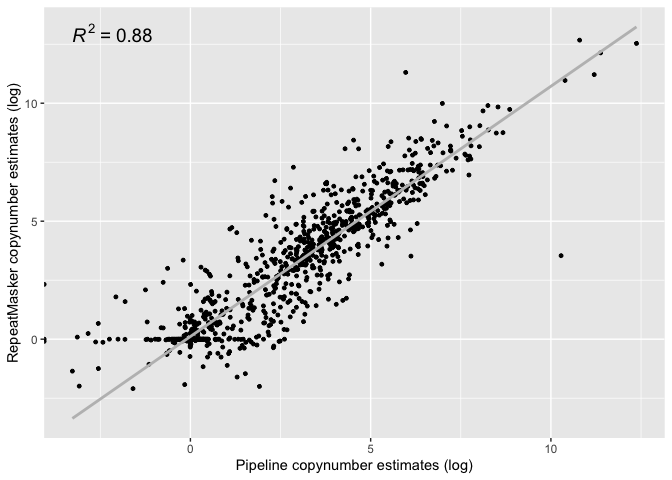
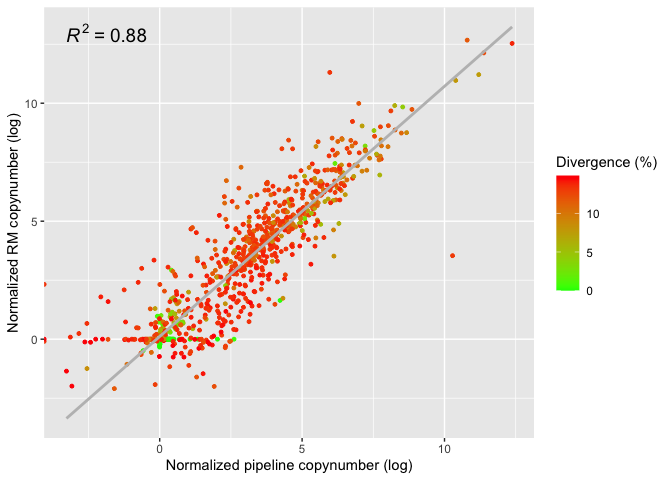
Script 11
Polished and documented script 11

diff --git a/ric_documentation/11_HGDP_T2T_control.md b/ric_documentation/11_HGDP_T2T_control.md
@@ -2,7 +2,7 @@ Telomer-to-telomer (T2T) Repeat Masker output analysis
 ================
 
 Idea: run RepeatMasker (RM) on the T2T human genome assembly published
-in 2022, then creat artificial short reads from the same genome and
+in 2022, then create artificial short reads from the same genome and
 compare the TE copynumbers obtained with the two methods.
 
 First, with this command I run RM, using our customized RepBase
@@ -101,11 +101,12 @@ library(ggpubr)
     ## #   ⁸matching_repeat
 
 Here I filter the RM output putting a threshold on the maximum
-**divergence** percentage among the query and the reference, as well as
-a minimum **length** for the match. I also remove the brackets present
-in some data to indicate that the sequence aligned to the complement of
-the reference, which create some problems with the data type and which
-are not interesting for this analysis.
+**divergence** percentage (`15`) among the query and the reference, as
+well as a minimum **length** (`150`, = read length) for the match. I
+also remove the brackets present in some data to indicate that the
+sequence aligned to the complement of the reference, which create some
+problems with the data type and which are not interesting for this
+analysis.
 
 As output of this chunk, I create a .csv file to analyze in Python using
 the script *from_RM_to_copynumber*, which estimates the copynumber of
@@ -114,30 +115,8 @@ the script by simply adding the length of each match of a sequence and
 then dividing by the sequence length.
 
 ``` r
-(RM_cutoff <- filter(RM, perc_div < 15, position_in_query_end-position_in_query_begin>150) %>% replace_na(list(other_match = "-")) %>% filter(other_match == "-") %>% mutate(position_in_repeat_begin = str_replace(position_in_repeat_begin, "\\(", "")) %>% mutate(position_in_repeat_begin = str_replace(position_in_repeat_begin, "\\)", "")) %>% mutate(position_in_repeat_left = str_replace(position_in_repeat_left, "\\(", "")) %>% mutate(position_in_repeat_left = str_replace(position_in_repeat_left, "\\)", "")) %>% mutate(position_in_query_left = str_replace(position_in_query_left, "\\(", "")) %>% mutate(position_in_query_left = str_replace(position_in_query_left, "\\)", "")) %>% mutate(position_in_repeat_end = str_replace(position_in_repeat_end, "\\(", "")) %>% mutate(position_in_repeat_end = str_replace(position_in_repeat_end, "\\)", "")) %>% mutate(position_in_query_begin = str_replace(position_in_query_begin, "\\(", "")) %>% mutate(position_in_query_begin = str_replace(position_in_query_begin, "\\)", "")) %>% mutate(position_in_query_end = str_replace(position_in_query_end, "\\(", "")) %>% mutate(position_in_query_end = str_replace(position_in_query_end, "\\)", "")) %>% arrange(matching_repeat))
-```
+RM_cutoff <- filter(RM, perc_div < 15, position_in_query_end-position_in_query_begin>150) %>% replace_na(list(other_match = "-")) %>% filter(other_match == "-") %>% mutate(position_in_repeat_begin = str_replace(position_in_repeat_begin, "\\(", "")) %>% mutate(position_in_repeat_begin = str_replace(position_in_repeat_begin, "\\)", "")) %>% mutate(position_in_repeat_left = str_replace(position_in_repeat_left, "\\(", "")) %>% mutate(position_in_repeat_left = str_replace(position_in_repeat_left, "\\)", "")) %>% mutate(position_in_query_left = str_replace(position_in_query_left, "\\(", "")) %>% mutate(position_in_query_left = str_replace(position_in_query_left, "\\)", "")) %>% mutate(position_in_repeat_end = str_replace(position_in_repeat_end, "\\(", "")) %>% mutate(position_in_repeat_end = str_replace(position_in_repeat_end, "\\)", "")) %>% mutate(position_in_query_begin = str_replace(position_in_query_begin, "\\(", "")) %>% mutate(position_in_query_begin = str_replace(position_in_query_begin, "\\)", "")) %>% mutate(position_in_query_end = str_replace(position_in_query_end, "\\(", "")) %>% mutate(position_in_query_end = str_replace(position_in_query_end, "\\)", "")) %>% arrange(matching_repeat)
 
-    ## # A tibble: 1,169,025 × 16
-    ##    SWscore perc_…¹ perc_…² perc_…³ query…⁴ posit…⁵ posit…⁶ posit…⁷ `+/c` match…⁸
-    ##    <chr>     <dbl>   <dbl>   <dbl> <chr>   <chr>   <chr>   <chr>   <chr> <chr>  
-    ##  1 4251        1.9     0       0.2 NC_060… 127766… 127769… 120618… +     6kbHsa…
-    ##  2 5953        5       0.4     0.3 NC_060… 127770… 127772… 120614… C     6kbHsa…
-    ##  3 201        11.3     6.3     5.6 NC_060… 208871… 208871… 395155… +     6kbHsa…
-    ##  4 1105       14.6     1       0   NC_060… 693439… 693441… 173352… C     6kbHsa…
-    ##  5 2985        6.8     1.2     0   NC_060… 132718… 132721… 109975… +     6kbHsa…
-    ##  6 3406        7.4     1       0.4 NC_060… 132721… 132726… 109970… +     6kbHsa…
-    ##  7 2922       10.5     3.6     3   NC_060… 132727… 132727… 109968… +     6kbHsa…
-    ##  8 0558        4.8     1.3     0   NC_060… 161737… 161740… 809562… C     6kbHsa…
-    ##  9 6574        2.4     0.2     0.1 NC_060… 957535… 957556… 105350… +     6kbHsa…
-    ## 10 2956        3.7     0.3     0.1 NC_060… 957549… 957591… 105346… +     6kbHsa…
-    ## # … with 1,169,015 more rows, 6 more variables: `repeat_class/family` <chr>,
-    ## #   position_in_repeat_left <chr>, position_in_repeat_begin <chr>,
-    ## #   position_in_repeat_end <chr>, ID <dbl>, other_match <chr>, and abbreviated
-    ## #   variable names ¹perc_div, ²perc_del, ³perc_ins, ⁴query_sequence,
-    ## #   ⁵position_in_query_begin, ⁶position_in_query_end, ⁷position_in_query_left,
-    ## #   ⁸matching_repeat
-
-``` r
 write_csv(RM_cutoff, "/Users/rpianezza/TE/T2T/RM_cutoff.csv")
 ```
 
@@ -156,80 +135,29 @@ RM_copynumbers <- read_csv("/Users/rpianezza/TE/T2T/RM_complete/copynumber_RM.cs
     ## ℹ Use `spec()` to retrieve the full column specification for this data.
     ## ℹ Specify the column types or set `show_col_types = FALSE` to quiet this message.
 
-``` r
-RM_scg <- filter(RM_copynumbers, str_detect(sequence, ".scg"))
-(RM_scg_outliers <- filter(RM_scg, copynumber > 1.5))
-```
-
-    ## # A tibble: 6 × 2
-    ##   sequence                      copynumber
-    ##   <chr>                              <dbl>
-    ## 1 chr1:2629757-2632979_scg            1.53
-    ## 2 chr14:105475310-105478776_scg       2.92
-    ## 3 chr16:765731-768798_scg             2.73
-    ## 4 chr16:792523-795720_scg             2.06
-    ## 5 chr16:89905008-89909174_scg         2.07
-    ## 6 chr7:95409506-95411684_scg         10.2
+Here I select only the TE, removing KRAB and SCG from the RM dataset.
+The resulting CSV file can be used for other analyses.
 
 ``` r
-RM_krab <- filter(RM_copynumbers, str_detect(sequence, ".krab"))
-(RM_krab_outliers <- filter(RM_krab, copynumber > 2.5))
-```
+RM_cutoff_te <- filter(RM_cutoff, str_detect(matching_repeat, ".te")) %>% mutate(position_in_query_begin = as.integer(position_in_query_begin)) %>% arrange(matching_repeat, position_in_query_begin)
 
-    ## # A tibble: 10 × 2
-    ##    sequence        copynumber
-    ##    <chr>                <dbl>
-    ##  1 a_CDK8_20_krab        4.93
-    ##  2 a_EWSR1_17_krab       5.49
-    ##  3 a_FOXD3_0_krab        3.27
-    ##  4 a_FOXO1_0_krab        2.88
-    ##  5 a_PCBP2_29_krab       5.80
-    ##  6 a_SRSF2_10_krab       2.92
-    ##  7 a_YWHAB_9_krab        2.58
-    ##  8 a_ZNF248_3_krab       4.48
-    ##  9 a_ZNF302_4_krab       3.14
-    ## 10 a_ZNF674_3_krab       4.88
-
-Here I select only the TE, removing KRAB and SCG from the dataset. The
-resulting CSV file can be used for other analyses.
-
-``` r
-(RM_cutoff_te <- filter(RM_cutoff, str_detect(matching_repeat, ".te")) %>% mutate(position_in_query_begin = as.integer(position_in_query_begin)) %>% arrange(matching_repeat, position_in_query_begin))
-```
-
-    ## # A tibble: 1,168,220 × 16
-    ##    SWscore perc_…¹ perc_…² perc_…³ query…⁴ posit…⁵ posit…⁶ posit…⁷ `+/c` match…⁸
-    ##    <chr>     <dbl>   <dbl>   <dbl> <chr>     <int> <chr>   <chr>   <chr> <chr>  
-    ##  1 8749        8.3     0.6     0.9 NC_060…    2070 4815    101156… C     6kbHsa…
-    ##  2 6479       14.8     1.4     0.3 NC_060…    4286 5535    101155… C     6kbHsa…
-    ##  3 2599        5.1     0.4     0.5 NC_060…    8384 12657   101148… C     6kbHsa…
-    ##  4 2470        5.2     0.3     0.6 NC_060…   14657 18937   101142… C     6kbHsa…
-    ##  5 2530        5.1     0.3     0.6 NC_060…   20945 25225   101136… C     6kbHsa…
-    ##  6 2606        5       0.3     0.6 NC_060…   27225 31505   101129… C     6kbHsa…
-    ##  7 2610        5       0.3     0.6 NC_060…   33505 37785   101123… C     6kbHsa…
-    ##  8 2510        5.2     0.3     0.6 NC_060…   39785 44065   101117… C     6kbHsa…
-    ##  9 2436        5.2     0.3     0.6 NC_060…   46065 50345   101111… C     6kbHsa…
-    ## 10 2620        5       0.3     0.6 NC_060…   52345 56625   101104… C     6kbHsa…
-    ## # … with 1,168,210 more rows, 6 more variables: `repeat_class/family` <chr>,
-    ## #   position_in_repeat_left <chr>, position_in_repeat_begin <chr>,
-    ## #   position_in_repeat_end <chr>, ID <dbl>, other_match <chr>, and abbreviated
-    ## #   variable names ¹perc_div, ²perc_del, ³perc_ins, ⁴query_sequence,
-    ## #   ⁵position_in_query_begin, ⁶position_in_query_end, ⁷position_in_query_left,
-    ## #   ⁸matching_repeat
-
-``` r
 write_csv(RM_cutoff, "/Users/rpianezza/TE/T2T/RM_cutoff_te.csv")
 ```
 
-Using this command and the Python2 script *create-reads-for-human.py*, I
-create artificial short reads from the T2T genome.
+Using this command and the Python2 script *create-reads-for-human.py*
+(can be found in *human_te_dynamics.svn/scripts/*), I create artificial
+short reads from the T2T genome.
 
     python /Users/rpianezza/TE/human-te-dynamics-svn/scripts/create-reads-for-human.py --fasta /Users/rpianezza/TE/T2T/genome_assemblies_genome_fasta/ncbi-genomes-2022-11-22/GCF_009914755.1_T2T-CHM13v2.0_genomic.fna --coverage 30 --read-length 150 --output /Users/rpianezza/TE/T2T/T2T-artificial-reads/reads.fastq.gz --method uniform
 
 The artificial reads are then processed into the pipeline to estimate
-copynumbers. Here I read the main output file and I create a comparison
-between the two methods copynumber estimates: RepeatMasker (`RM`) and
-the pipeline run on artificial short reads (`pipeline`).
+copynumbers (**normalization**). Here I read the main output file and I
+create a comparison between the two methods copynumber estimates:
+RepeatMasker (`RM`) and the pipeline run on artificial short reads
+(`pipeline`). The color of the points depends on the mean
+`divergence percentage` of the RM hits on the respective reference
+sequence. We expect higly divergent sequences to be more prone to
+produce outliers across the two methods, thus less reliable.
 
 ``` r
 artificial <- read_delim("/Users/rpianezza/TE/T2T/T2T-artificial-reads/T2T_artificial_reads.mq10.mapstat", delim = "\t", skip = 8, col_names = c("type", "familyname", "length", "reads", "copynumber"))
@@ -246,14 +174,36 @@ artificial <- read_delim("/Users/rpianezza/TE/T2T/T2T-artificial-reads/T2T_artif
 
 ``` r
 art_subset <- select(artificial, familyname, copynumber) %>% arrange(familyname)
+
 RM_subset <- RM_copynumbers %>% mutate(sequence = str_replace(sequence, "_te", "")) %>% mutate(sequence = str_replace(sequence, "_krab", "")) %>% mutate(sequence = str_replace(sequence, "_scg", "")) %>% mutate(sequence = str_replace(sequence, "_scgx", "")) %>% rename(familyname = sequence)
+
+divergence <- group_by(RM_cutoff, matching_repeat) %>% summarise(mean_div = mean(perc_div)) %>% mutate(matching_repeat = str_replace(matching_repeat, "_te", "")) %>% mutate(matching_repeat = str_replace(matching_repeat, "_krab", "")) %>% mutate(matching_repeat = str_replace(matching_repeat, "_scg", "")) %>% mutate(matching_repeat = str_replace(matching_repeat, "_scgx", "")) %>% rename(familyname = matching_repeat)
 
 cn_comparison <- inner_join(art_subset, RM_subset, by = "familyname") %>% rename(pipeline_copynumber = copynumber.x) %>% rename(RM_copynumber = copynumber.y)
 
-ggplot(cn_comparison, aes(x=log(pipeline_copynumber), y=log(RM_copynumber))) +
-  geom_point(size=1) +
+(cn_comparison_final <- inner_join(cn_comparison, divergence, by = "familyname"))
+```
+
+    ## # A tibble: 1,443 × 4
+    ##    familyname     pipeline_copynumber RM_copynumber mean_div
+    ##    <chr>                        <dbl>         <dbl>    <dbl>
+    ##  1 6kbHsap                    285.          130.        5.50
+    ##  2 a_AC067968.1_2               1.29          0.999     0.2 
+    ##  3 a_AC092835.1_5               1.17          0.999     0   
+    ##  4 a_CDK8_20                    1.99          4.93      5.17
+    ##  5 a_CHD3_3                     1.06          0.999     0   
+    ##  6 a_CLTC_6                     0.992         0.999     0   
+    ##  7 a_DCT_12                     0.994         1.00      0   
+    ##  8 a_DNAJA2_11                  0.993         0.999     0   
+    ##  9 a_E2F1_2                     0.993         0.999     0   
+    ## 10 a_EGR1_4                     1.24          0.999     0   
+    ## # … with 1,433 more rows
+
+``` r
+ggplot(cn_comparison_final, aes(x=log(pipeline_copynumber), y=log(RM_copynumber), color=mean_div)) +
+  geom_point(size=1) + scale_color_gradient(low = "green", high = "red") + labs(color = "Divergence (%)") +
   geom_smooth(method="lm",color="grey", se=F) +
-  ylab("RepeatMasker copynumber estimates (log)") + xlab("Pipeline copynumber estimates (log)") +
+  ylab("Normalized RM copynumber (log)") + xlab("Normalized pipeline copynumber (log)") +
   stat_regline_equation(label.y = 13, aes(label = ..rr.label..), size=5)
 ```
 
@@ -265,71 +215,40 @@ ggplot(cn_comparison, aes(x=log(pipeline_copynumber), y=log(RM_copynumber))) +
 
 ![](11_HGDP_T2T_control_files/figure-gfm/unnamed-chunk-5-1.png)<!-- -->
 
-Here I check if there is a correlation between the number of reads (not
-normalized) aligned by the pipeline and the number of hits of RM for
-each sequence in the reference library.
+Here I check if there is a correlation between the copynumbers estimated
+by the pipeline (normalized) and the number of hits of RM for each
+sequence in the reference library.
 
 ``` r
-(RM_reads <- group_by(RM, matching_repeat) %>% count() %>% mutate(matching_repeat = str_replace(matching_repeat, "_te", "")) %>% mutate(matching_repeat = str_replace(matching_repeat, "_krab", "")) %>% mutate(matching_repeat = str_replace(matching_repeat, "_scg", "")) %>% mutate(matching_repeat = str_replace(matching_repeat, "_scgx", "")) %>% rename(familyname = matching_repeat))
+RM_reads <- group_by(RM, matching_repeat) %>% count() %>% mutate(matching_repeat = str_replace(matching_repeat, "_te", "")) %>% mutate(matching_repeat = str_replace(matching_repeat, "_krab", "")) %>% mutate(matching_repeat = str_replace(matching_repeat, "_scg", "")) %>% mutate(matching_repeat = str_replace(matching_repeat, "_scgx", "")) %>% rename(familyname = matching_repeat)
+
+pipeline_reads <- select(artificial, familyname, copynumber) %>% arrange(familyname)
+
+reads_comparison <- inner_join(pipeline_reads, RM_reads, by = "familyname") %>% rename(pipeline_copynumber = copynumber, RM_reads = n) %>% inner_join(divergence, bz = "familyname")
 ```
 
-    ## # A tibble: 1,703 × 2
-    ## # Groups:   familyname [1,703]
-    ##    familyname         n
-    ##    <chr>          <int>
-    ##  1 6kbHsap        20241
-    ##  2 a_AC067968.1_2    29
-    ##  3 a_AC092835.1_5   132
-    ##  4 a_CDK8_20         36
-    ##  5 a_CHD3_3          19
-    ##  6 a_CLTC_6          18
-    ##  7 a_DCT_12          77
-    ##  8 a_DNAJA2_11       53
-    ##  9 a_E2F1_2         199
-    ## 10 a_EGR1_4          54
-    ## # … with 1,693 more rows
+    ## Joining, by = "familyname"
 
 ``` r
-(pipeline_reads <- select(artificial, familyname, reads) %>% arrange(familyname))
-```
-
-    ## # A tibble: 1,703 × 2
-    ##    familyname       reads
-    ##    <chr>            <dbl>
-    ##  1 6kbHsap        344075.
-    ##  2 a_AC067968.1_2    312.
-    ##  3 a_AC092835.1_5    296.
-    ##  4 a_CDK8_20         487.
-    ##  5 a_CHD3_3          232.
-    ##  6 a_CLTC_6          276.
-    ##  7 a_DCT_12          496.
-    ##  8 a_DNAJA2_11       318.
-    ##  9 a_E2F1_2          299.
-    ## 10 a_EGR1_4          329.
-    ## # … with 1,693 more rows
-
-``` r
-reads_comparison <- inner_join(pipeline_reads, RM_reads, by = "familyname") %>% rename(pipeline_reads = reads, RM_reads = n)
-
-ggplot(reads_comparison, aes(x=log(pipeline_reads), y=log(RM_reads))) +
-  geom_point(size=1) +
+ggplot(reads_comparison, aes(x=log(pipeline_copynumber), y=log(RM_reads), color=mean_div)) +
+  geom_point(size=1) + scale_color_gradient(low = "green", high = "red") + labs(color = "Divergence (%)") +
   geom_smooth(method="lm",color="grey", se=F) +
-  ylab("RepeatMasker read number (log)") + xlab("Pipeline read number (log)") +
-  stat_regline_equation(label.y = 13, aes(label = ..rr.label..), size=5)
+  ylab("Non-normalized RM read number (log)") + xlab("Normalized pipeline copynumber (log)") +
+  stat_regline_equation(label.y = 14, aes(label = ..rr.label..), size=5)
 ```
 
     ## `geom_smooth()` using formula 'y ~ x'
 
-    ## Warning: Removed 40 rows containing non-finite values (stat_smooth).
+    ## Warning: Removed 3 rows containing non-finite values (stat_smooth).
 
-    ## Warning: Removed 40 rows containing non-finite values (stat_regline_equation).
+    ## Warning: Removed 3 rows containing non-finite values (stat_regline_equation).
 
 ![](11_HGDP_T2T_control_files/figure-gfm/unnamed-chunk-6-1.png)<!-- -->
 
 Here I calculate the mean copynumber for each `familyname` among all the
 HGDP samples and I look for a correlation between these values and the
-copynumber estimated by the pipeline in the T2T genome, to see if the
-values are in line with the previous analysis.
+copynumbers estimated by the pipeline in the T2T genome (artificial
+reads), to see if the values are in line with the previous analysis.
 
 ``` r
 HGDPcutoff<-read_delim("/Users/rpianezza/TE/summary-HGDP/USEME_HGDP_complete_reflib6.2_mq10_batchinfo_cutoff0.01.txt",comment="#")
@@ -349,27 +268,10 @@ names(HGDPcutoff)<-c("ID","pop","sex","country","type","familyname","length","re
 
 mean_cn <- group_by(HGDPcutoff, familyname) %>% summarise(min = min(copynumber), mean = mean(copynumber), max = max(copynumber))
 
-(T2T_HGDP <- inner_join(mean_cn, art_subset, by="familyname") %>% rename(T2T = copynumber))
-```
+T2T_HGDP <- inner_join(mean_cn, art_subset, by="familyname") %>% rename(T2T = copynumber) %>% inner_join(divergence, by = "familyname")
 
-    ## # A tibble: 1,684 × 5
-    ##    familyname         min    mean    max     T2T
-    ##    <chr>            <dbl>   <dbl>  <dbl>   <dbl>
-    ##  1 6kbHsap        178.    305.    434.   285.   
-    ##  2 a_AC067968.1_2   0.953   1.31    1.63   1.29 
-    ##  3 a_AC092835.1_5   0.941   1.22    1.51   1.17 
-    ##  4 a_CDK8_20        1.63    2.07    2.59   1.99 
-    ##  5 a_CHD3_3         0.605   1.02    1.39   1.06 
-    ##  6 a_CLTC_6         0.736   1.05    1.40   0.992
-    ##  7 a_DCT_12         0.789   0.984   1.61   0.994
-    ##  8 a_DNAJA2_11      0.774   1.05    1.42   0.993
-    ##  9 a_E2F1_2         0.812   1.02    1.25   0.993
-    ## 10 a_EGR1_4         0.967   1.25    1.57   1.24 
-    ## # … with 1,674 more rows
-
-``` r
-ggplot(T2T_HGDP, aes(x=log(mean), y=log(T2T))) +
-  geom_point(size=1) +
+ggplot(T2T_HGDP, aes(x=log(mean), y=log(T2T), color=mean_div)) +
+  geom_point(size=1) + scale_color_gradient(low = "green", high = "red") + labs(color = " Divergence (%)") +
   geom_smooth(method="lm",color="grey")+
   ylab("HGDP mean copynumber (log)") + xlab("T2T copynumber (log)") +
   stat_regline_equation(label.y = 13, aes(label = ..rr.label..), size=5)
@@ -377,8 +279,8 @@ ggplot(T2T_HGDP, aes(x=log(mean), y=log(T2T))) +
 
     ## `geom_smooth()` using formula 'y ~ x'
 
-    ## Warning: Removed 21 rows containing non-finite values (stat_smooth).
+    ## Warning: Removed 2 rows containing non-finite values (stat_smooth).
 
-    ## Warning: Removed 21 rows containing non-finite values (stat_regline_equation).
+    ## Warning: Removed 2 rows containing non-finite values (stat_regline_equation).
 
 ![](11_HGDP_T2T_control_files/figure-gfm/unnamed-chunk-7-1.png)<!-- -->
